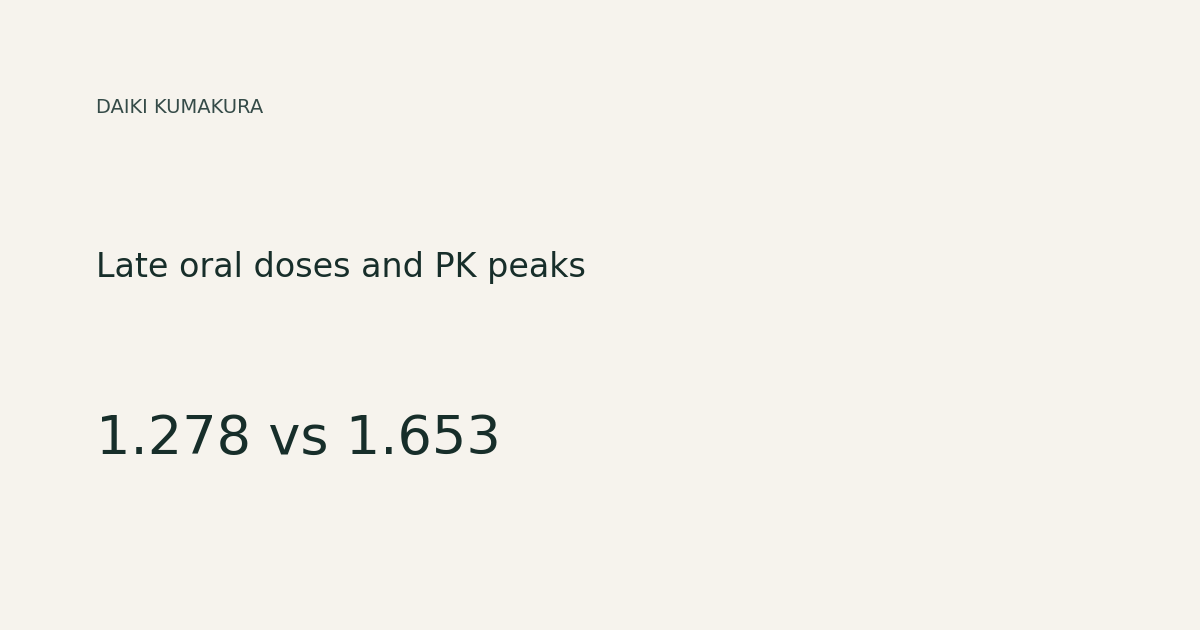
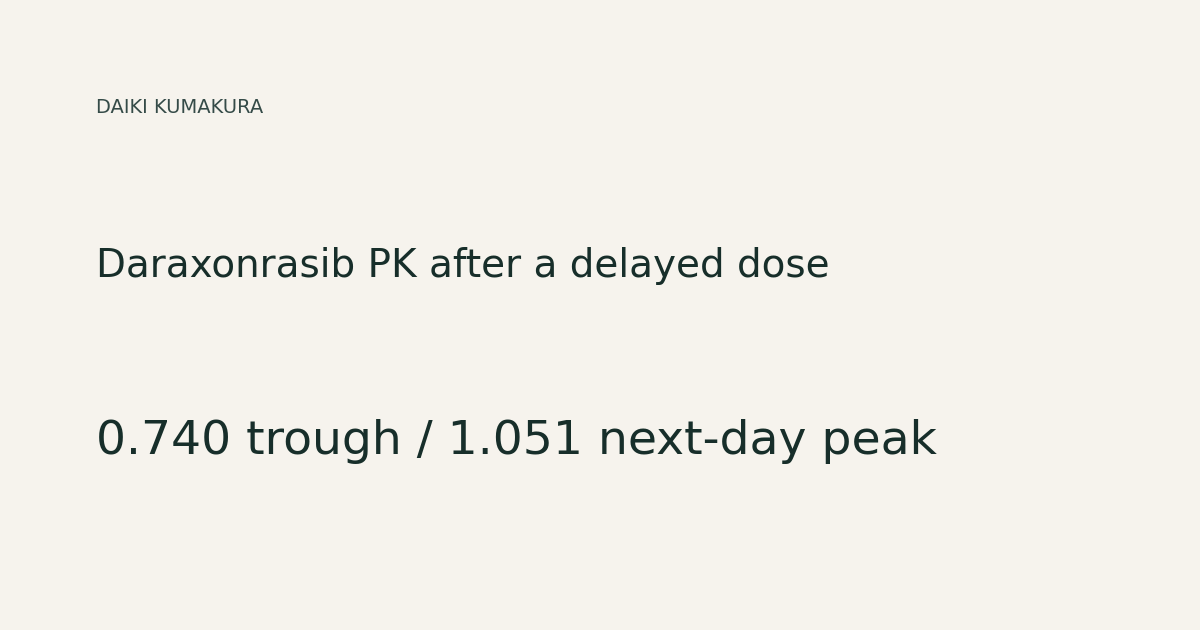
Ground two scheduled analyses in recent clinical evidence

Changed region(s): [[0.0617, 0.6333, 0.7708, 0.754], [0.0617, 0.3921, 0.7092, 0.4524]]

diff --git a/site/content/articles/survival-landmark-rmst-bounds/ja.md b/site/content/articles/survival-landmark-rmst-bounds/ja.md
@@ -1,26 +1,28 @@
-生存期間中央値が同じでも、生存曲線の面積は同じとは限らない。では、中央値のほかに6か月と18か月の生存割合が分かれば、18か月までの制限平均生存時間（RMST）はどこまで決まるか。RMSTは指定時点までの生存曲線の面積である ([1](#ref-1))。ここでは仮想の集計値だけを使い、曲線の単調性が許す範囲を求めた。
+DeLLphi-304の延長追跡では、tarlatamab群と化学療法群の全生存期間（OS）中央値は13.6か月と8.4か月だった。中央値の差は5.2か月である。24か月までの平均生存時間の差を知りたいとき、この数字とAnnals of Oncologyの抄録にある二つの生存割合で、どこまで答えが決まるだろうか。対象は白金製剤による化学療法中または治療後に進行した小細胞肺がんで、tarlatamab群254人、化学療法群255人の無作為化比較である。データカットオフは2026年2月18日だった ([1](#ref-1))。
 
-## ランドマーク間の面積を挟む
+## 抄録の数字から生存曲線の面積を挟む
 
-開始時の生存割合を1、6か月を0.70、18か月を0.30とし、中央値が12か月とする。中央値は初めて生存割合が0.50以下になる時点。6〜12か月では曲線は0.50より上で0.70以下、12〜18か月では0.50以下で0.30以上になる。12か月ちょうどで0.50を飛び越えて落ちる曲線も含む。各区間の幅6か月を掛けて足すと、18か月RMSTは $6(0.70+0.50+0.30)=9.0$ か月以上、$6(1+0.70+0.50)=13.2$ か月以下となる。12か月ちょうどの値を0.50と追加で定め、各区間を直線補間するなら11.1か月になる。
+24か月までの制限平均生存時間（RMST）は、無作為化から24か月までの生存曲線の面積である ([2](#ref-2))。原著で報告された12か月と24か月の生存割合はtarlatamabが55.9%と30.3%、化学療法が39.0%と14.9%だった ([1](#ref-1))。以下では報告値を固定し、曲線は1から始まり単調に下がるとする。生存割合が初めて0.5以下に達する時点を中央値とし、その時点で0.5を飛び越えて低下する場合も許した。
 
-## 同じ中央値を持つ曲線を二つ作る
+中央値と報告されたランドマークで時間を区切る。各区間の下限は、右側にある既知の生存割合の最大値である。中央値より前の区間では0.5も下限候補に含める。上限は左側にある既知の生存割合の最小値で、中央値以降なら高くても0.5とする。各上限・下限に区間幅を掛けて足す。例えばtarlatamab群の下限は $12(0.559)+1.6(0.5)+10.4(0.303)=10.6592$ か月になる。
 
-以下の二例では12か月ちょうどの値を0.50とした。上限の曲線は6、12、18か月の直前まで左側の値を維持し、各ランドマークで下がる。初めて0.50以下になるのは12か月で、面積は13.2か月。下限に近づける曲線では、0.001か月に0.70へ、6.001か月に0.501へ、12か月に0.50へ、12.001か月に0.30へ下がる。中央値は同じ12か月で、面積は9.0067か月。早い低下を区間の左端へ近づけ、0.501を0.50へ上から近づければ、中央値を保ったまま下限に近づく。6〜12か月で生存割合は0.50より上なので、9.0か月には達しない。表1はこの二つを示す。
+**表1.** 抄録の報告値を順に加えた場合の24か月RMSTの上下限。群間差はtarlatamabから化学療法を引いた値。
 
-**表1.** 同じ仮想集計に対応しうる曲線の例。
+| Information used | Tarlatamab (months) | Chemotherapy (months) | Difference (months) |
+| --- | ---: | ---: | ---: |
+| Median only | 6.80 to 18.80 | 4.20 to 16.20 | −9.40 to 14.60 |
+| Median and 12-month OS | 7.51 to 18.09 | 5.60 to 14.88 | −7.37 to 12.49 |
+| Median and 12- and 24-month OS | 10.66 to 18.09 | 7.39 to 14.88 | −4.22 to 10.70 |
 
-| Curve | S(6) | S(12) | S(18) | Median (months) | RMST to 18 months (months) |
-| --- | ---: | ---: | ---: | ---: | ---: |
-| Late drops | 0.70 | 0.50 | 0.30 | 12 | 13.2000 |
-| Early drops | 0.70 | 0.50 | 0.30 | 12 | 9.0067 |
+表1では、12・24か月の生存割合を加えると群間差の幅は24.0か月から14.9か月に狭まる。それでも0をまたぐ。差の下限はtarlatamabの面積の下限から化学療法の上限を引いた値で、上限はその逆の組合せで求めた。区間の端に近いところで段差を作る曲線は、これらの境界に近づける。中央値より前に下限が0.5になる区間では、0.5をわずかに上回る値で近づける。追加のランドマークや曲線の情報なしには、範囲をさらに狭められない。
 
-2群がこの集計を共有していても、一方を早い低下、もう一方を遅い低下にすれば、群間RMST差の符号はどちらにもなりうる。9.0〜13.2か月は標本誤差の区間ではない。公表値に丸めや推定誤差があれば、ここで固定した制約自体が変わる。この計算から試験の打ち切り、イベント数、ハザード比は復元していない。
+これは群間差の信頼区間ではない。丸められた報告値を固定して、曲線を省略した要約に何が残るかを測っている。ゼロを含むことは要約値の制約を示しており、試験で報告されたOS結果とは異なる問いである。[原著のFigure 1A](https://pmc.ncbi.nlm.nih.gov/articles/PMC13718749/#F1)には、計算に使っていないKaplan–Meier曲線もある ([1](#ref-1))。求めたい量が24か月でのRMST差なら、中央値の差5.2か月を代用するより、曲線の面積または試験データから求めた推定値とその不確実性を参照する必要がある。
 
 ## データとコードの公開状況
 
-生存割合は仮想値である。[再現用ZIP](shared/survival-landmark-rmst-bounds/companion.zip)に矩形和と階段曲線の検算を収録した。
+入力は原著の中央値とランドマーク生存割合で、個人データは用いていない。[再現用ZIP](shared/survival-landmark-rmst-bounds/companion.zip)にPythonコードと出力を収録した。
 
 ## 参照
 
-1. <a id="ref-1"></a> Zhao L, Claggett B, Tian L, Uno H, Pfeffer MA, Solomon SD, et al. On the restricted mean survival time curve in survival analysis. Biometrics. 2016;72(1):215–221. [doi:10.1111/biom.12384](https://doi.org/10.1111/biom.12384).
+1. <a id="ref-1"></a> Rudin CM, Ahn MJ, Schuler M, Blackhall FH, Mountzios G, Yoshida T, et al. Extended follow-up of tarlatamab in patients with small-cell lung cancer after platinum-based chemotherapy in the randomized phase III DeLLphi-304 study. Ann Oncol. 2026. [doi:10.1016/j.annonc.2026.10.095](https://doi.org/10.1016/j.annonc.2026.10.095).
+2. <a id="ref-2"></a> Zhao L, Claggett B, Tian L, Uno H, Pfeffer MA, Solomon SD, et al. On the restricted mean survival time curve in survival analysis. Biometrics. 2016;72(1):215–221. [doi:10.1111/biom.12384](https://doi.org/10.1111/biom.12384).

diff --git a/site/content/articles/survival-landmark-rmst-bounds/en.md b/site/content/articles/survival-landmark-rmst-bounds/en.md
@@ -1,26 +1,28 @@
-When two survival curves share a median, their areas can still differ. How closely can we pin down restricted mean survival time (RMST) through month 18 if we also know survival at months 6 and 18? RMST is the area under the survival curve up to a specified time ([1](#ref-1)). I used hypothetical summaries to calculate what monotonicity alone permits.
+At extended follow-up in DeLLphi-304, median overall survival (OS) was 13.6 months with tarlatamab and 8.4 months with chemotherapy, a difference of 5.2 months. If the quantity of interest is average survival through month 24, how much can that difference and the two survival probabilities in the Annals of Oncology abstract tell us? The randomized trial assigned 254 patients with small-cell lung cancer progressing on or after platinum-based chemotherapy to tarlatamab and 255 to chemotherapy. The data cutoff was February 18, 2026 ([1](#ref-1)).
 
-## Bounding the area between landmarks
+## Bounding the area from the published summary
 
-Set baseline survival to one, six-month survival to 0.70, and 18-month survival to 0.30. The median is month 12, the first time survival reaches 0.50 or below. Between months 6 and 12, survival is above 0.50 and at most 0.70. Between months 12 and 18, it is at most 0.50 and at least 0.30. A jump past 0.50 at month 12 is allowed. Multiplying by the six-month widths gives a lower limit of $6(0.70+0.50+0.30)=9.0$ months and an upper limit of $6(1+0.70+0.50)=13.2$ months. If survival at month 12 is additionally fixed at exactly 0.50, linear interpolation gives 11.1 months.
+Restricted mean survival time (RMST) through month 24 is the area under the survival curve from randomization to that time ([2](#ref-2)). Reported survival at months 12 and 24 was 55.9% and 30.3% with tarlatamab and 39.0% and 14.9% with chemotherapy ([1](#ref-1)). I treat those reported values as fixed and assume survival starts at 1 and is nonincreasing. The median is the first time survival reaches or falls below 0.5. A drop past 0.5 at the median is allowed.
 
-## Two curves with the same median
+Split follow-up at the median and the available landmarks. A lower bound for survival in each interval is the largest known survival probability to its right, with a floor of 0.5 before the median. The upper bound is the smallest known probability to its left, with a ceiling of 0.5 after the median. Multiply each bound by the interval width and sum the areas. For tarlatamab, for example, the lower bound is $12(0.559)+1.6(0.5)+10.4(0.303)=10.6592$ months.
 
-Both examples set survival at month 12 to exactly 0.50. The upper curve retains the left value until the next landmark and drops there. It first reaches 0.50 or below at month 12, with an area of 13.2 months. A curve close to the lower limit drops to 0.70 at month 0.001, to 0.501 at month 6.001, to 0.50 at month 12 and to 0.30 at month 12.001. Its median is still 12 months and its area is 9.0067 months. Moving the early drops towards the left endpoints and 0.501 down towards 0.50 preserves the median while approaching 9.0. Because survival is above 0.50 between months 6 and 12, the area never reaches 9.0. Table 1 shows the two cases.
+**Table 1.** Bounds for RMST through month 24 as published summary values are added. The difference subtracts chemotherapy from tarlatamab.
 
-**Table 1.** Two possible curves with the same hypothetical summaries.
+| Information used | Tarlatamab (months) | Chemotherapy (months) | Difference (months) |
+| --- | ---: | ---: | ---: |
+| Median only | 6.80 to 18.80 | 4.20 to 16.20 | −9.40 to 14.60 |
+| Median and 12-month OS | 7.51 to 18.09 | 5.60 to 14.88 | −7.37 to 12.49 |
+| Median and 12- and 24-month OS | 10.66 to 18.09 | 7.39 to 14.88 | −4.22 to 10.70 |
 
-| Curve | S(6) | S(12) | S(18) | Median (months) | RMST to 18 months (months) |
-| --- | ---: | ---: | ---: | ---: | ---: |
-| Late drops | 0.70 | 0.50 | 0.30 | 12 | 13.2000 |
-| Early drops | 0.70 | 0.50 | 0.30 | 12 | 9.0067 |
+In Table 1, adding survival at months 12 and 24 narrows the range for the difference from 24.0 to 14.9 months. The range still includes zero. The lower limit subtracts the upper bound for chemotherapy from the lower bound for tarlatamab. The upper limit uses the other pair. Step functions with drops near the interval endpoints approach the limits. When a premedian interval has a lower bound of 0.5, approach it with survival just above 0.5. Further landmarks or information about the curve could narrow the range.
 
-Two arms sharing these summaries can have an RMST difference of either sign, depending on which curve belongs to which arm. The interval from 9.0 to 13.2 months describes what the summaries permit, conditional on exact landmark values. Rounding or sampling error changes those constraints. This calculation does not recover censoring, event counts or hazard ratios.
+These bounds are conditional on the rounded published values and do not constitute a confidence interval. It measures information lost by replacing the curve with a few summaries. The inclusion of zero describes the limits of those summaries and addresses a different question from the trial’s reported OS result. [Figure 1A in the original paper](https://pmc.ncbi.nlm.nih.gov/articles/PMC13718749/#F1) shows the Kaplan–Meier curves, which are outside this calculation ([1](#ref-1)). A 24-month RMST contrast calls for integrating the curves or consulting a trial-based estimate and its uncertainty. The 5.2-month difference between medians answers a different question.
 
 ## Data and code availability
 
-The survival probabilities are hypothetical. The [companion ZIP](shared/survival-landmark-rmst-bounds/companion.zip) contains the rectangle sums and step-curve checks.
+The inputs are median and landmark survival values from the paper. I used no individual patient data. [The reproducibility ZIP](shared/survival-landmark-rmst-bounds/companion.zip) contains the Python code and output.
 
 ## References
 
-1. <a id="ref-1"></a> Zhao L, Claggett B, Tian L, Uno H, Pfeffer MA, Solomon SD, et al. On the restricted mean survival time curve in survival analysis. Biometrics. 2016;72(1):215–221. [doi:10.1111/biom.12384](https://doi.org/10.1111/biom.12384).
+1. <a id="ref-1"></a> Rudin CM, Ahn MJ, Schuler M, Blackhall FH, Mountzios G, Yoshida T, et al. Extended follow-up of tarlatamab in patients with small-cell lung cancer after platinum-based chemotherapy in the randomized phase III DeLLphi-304 study. Ann Oncol. 2026. [doi:10.1016/j.annonc.2026.10.095](https://doi.org/10.1016/j.annonc.2026.10.095).
+2. <a id="ref-2"></a> Zhao L, Claggett B, Tian L, Uno H, Pfeffer MA, Solomon SD, et al. On the restricted mean survival time curve in survival analysis. Biometrics. 2016;72(1):215–221. [doi:10.1111/biom.12384](https://doi.org/10.1111/biom.12384).

diff --git a/site/content/articles/oral-pk-delayed-dose-tradeoff/ja.md b/site/content/articles/oral-pk-delayed-dose-tradeoff/ja.md
@@ -1,26 +1,31 @@
-12時間間隔の経口薬を9時間遅れて服用すると、次の予定までは3時間しかない。初回の遅れを埋めても、次の予定を元の時刻に置くかどうかで、その後の濃度の山が変わる。ClarkとLawleyは不規則な服用を薬物動態モデルで検討した ([1](#ref-1))。ここでは二つの時間窓を分け、低濃度と高濃度をそれぞれ計算する。
+Daraxonrasibの米国添付文書では、通常は300 mgを1日1回投与し、予定から4時間を超えた場合はその回を見送る ([1](#ref-1))。4時間という境界について、公開されている薬物動態（PK）の集計値から何が計算できるだろうか。服用遅れのモデルでは低濃度と高濃度が同じ方向には動かないことがある ([2](#ref-2))。そこで、ある1回だけ投与時刻が変わったときの最低濃度と、翌日の最高濃度を分けて計算した。
 
-## 次の予定を固定した場合と移した場合
+## 添付文書の半減期とピーク時刻から形を決める
 
-定常状態から始める。1コンパートメントモデルで吸収速度定数を毎時1、消失半減期を8時間、1回量を見かけの分布容積で割った値を濃度の1単位とした。投与から $t$ 時間後の寄与は $k_a(e^{-kt}-e^{-k_at})/(k_a-k)$ で、投与前はゼロ。$k=log(2)/8$ とし、過去の定期投与の寄与を等比級数で求め、予定と異なる投与分を加減した。0.001時間刻みで、0時間の予定を起点とする二つの窓の極値を求めた。
+一次吸収・一次消失の1コンパートメントモデルを、24時間間隔の定常状態から始める。消失速度定数は添付文書の終末半減期9.2時間から $k=\log(2)/9.2$ とし、吸収速度定数 $k_a$ は、添付文書の最高濃度到達時間の中央値2.2時間をモデルの定常状態で再現するよう二分法で決めた ([1](#ref-1))。添付文書のこの記載では定常状態かどうかが明記されていない。モデルでは終末相を消失で決まると仮定した。投与1回の寄与は $k_a(e^{-kt}-e^{-k_at})/(k_a-k)$ とした。ここで $t$ は投与からの時間、濃度の単位は1回量を見かけの分布容積で割った値である。定常状態から予定時刻0の寄与を引き、遅れて投与する場合はその時刻からの寄与を足した。24時間以降の投与予定は固定した。
 
-**表1. 0.001時間刻みで求めた濃度の極値**
+濃度曲線の形を点検するため、モデルの最高濃度と定常24時間の濃度時間曲線下面積（AUC）の比を確認した。モデルでは0.076 h⁻¹、添付文書の幾何平均である最高濃度365 ng/mLとAUC 3,760 ng·h/mLの商は0.097 h⁻¹だった ([1](#ref-1))。添付文書のこの記載箇所ではAUCの積分区間が明記されず、この二つの商から個人ごとの比のばらつきは分からない。仮に同じ積分区間ならモデルの比は公表値の商より約21%小さい。濃度を一律に拡大しても、この差は縮まらない。以下はモデル内での比で示す。
 
-| Change to the schedule at hours 0, 12 and 24 | Minimum from hour 0 to just before hour 12 | Maximum from hour 12 through hour 24 |
+**表1.** 半減期9.2時間での比較。0.01時間刻みで極値を求めた。
+
+| Scenario at hour 0 | Minimum through hour 24 / usual trough | Maximum during hours 24–48 / usual peak |
 | --- | ---: | ---: |
-| No change | 0.599 | 1.278 |
-| Skip the dose at hour 0 | 0.212 | 0.962 |
-| Move the dose to hour 9 and keep hours 12 and 24 | 0.275 | 1.653 |
-| Move the dose to hour 9 and continue every 12 hours | 0.275 | 1.184 |
+| On time | 1.000 | 1.000 |
+| Taken 4 h late | 0.740 | 1.051 |
+| Taken 8 h late (counterfactual) | 0.547 | 1.121 |
+| Omitted | 0.164 | 0.855 |
 
-表1の後ろ2行は0〜12時間の経過が同じだが、次を12時間に置くと後半の最大濃度は1.653で、予定どおりの約1.29倍になる。次を21時間に置くと後半の最大は1.184に下がる。一方で投与時刻は元の周期からずれる。同じ最低濃度を通る二案でも、その後のピークと予定時刻は一致しない。
+## 4時間を境界にする根拠はPKだけで決まらない
 
-この例では吸収・消失を線形とし、薬効や毒性の閾値を置いていない。各案の長期の濃度や実薬での服用判断は、この24時間の計算からは決まらない。
+表1では、4時間遅れの最初の24時間の最低濃度は通常のトラフの74%、翌日の最高濃度は通常のピークの105%になる。半減期を添付文書の平均から1標準偏差（2.7時間）上下させた6.5時間と11.9時間に振り、そのつど2.2時間のピーク時刻に合わせ直すと、4時間遅れの最低濃度比は0.653〜0.792、翌日のピーク比は3条件で1.042〜1.051だった。この幅は半減期を振った結果で、個体差を推定した区間ではない。
+
+8時間遅れは添付文書に沿わない反実仮想で、翌日のピークをどれだけ上げるかを見るために置いた。一方、1回飛ばすとそのピークの上昇はないが、このモデルでは前半の最低濃度がより低くなる。どちらの濃度変化が有効性や毒性にどれだけ効くかは推定していない。添付文書の4時間という境界をPKの集計値だけで再導出することはできない。
 
 ## データとコードの公開状況
 
-仮想条件のみを用いた。[再現用Pythonコードと出力](shared/oral-pk-delayed-dose-tradeoff/companion.zip)を公開する。
+添付文書の公開集計値を用いた。[再現用ZIP](shared/oral-pk-delayed-dose-tradeoff/companion.zip)にPythonコードと出力を収録した。
 
 ## 参照
 
-1. <a id="ref-1"></a> [Clark ED, Lawley SD. Should patients skip late doses of medication? A pharmacokinetic perspective. J Pharmacokinet Pharmacodyn. 2022;49(4):429–444.](https://doi.org/10.1007/s10928-022-09812-0)
+1. <a id="ref-1"></a> US Food and Drug Administration. Rasonque (daraxonrasib) prescribing information. 2026. Sections 2.2 and 12.3. [Drugs@FDA](https://www.accessdata.fda.gov/drugsatfda_docs/label/2026/220910Orig1s000lbl.pdf).
+2. <a id="ref-2"></a> Clark ED, Lawley SD. Should patients skip late doses of medication? A pharmacokinetic perspective. J Pharmacokinet Pharmacodyn. 2022;49(4):429–444. [doi:10.1007/s10928-022-09812-0](https://doi.org/10.1007/s10928-022-09812-0).

diff --git a/site/content/articles/oral-pk-delayed-dose-tradeoff/en.md b/site/content/articles/oral-pk-delayed-dose-tradeoff/en.md
@@ -1,26 +1,31 @@
-If a dose scheduled every 12 hours is taken nine hours late, just three hours remain before the next scheduled dose. Catching up on the late dose still leaves a choice of timing, and that choice changes the next concentration peak. Clark and Lawley studied irregular dosing with pharmacokinetic models ([1](#ref-1)). Here, I calculate the low and high concentrations in separate windows.
+The US prescribing information for daraxonrasib specifies 300 mg once daily and omitting a dose if it is more than four hours late ([1](#ref-1)). What can published pharmacokinetic (PK) summaries tell us about that cutoff? Models of irregular dosing can show low and high concentrations moving in different directions ([2](#ref-2)). I calculated the minimum concentration after one departure from the schedule and the maximum concentration the following day.
 
-## Keeping or shifting the next scheduled time
+## Setting the profile from the label half-life and time to peak
 
-The model starts at steady state. It has one compartment, an absorption rate constant of 1 per hour, and an elimination half-life of eight hours. The dose divided by apparent volume is one concentration unit. The contribution $t$ hours after a dose is $k_a(e^{-kt}-e^{-k_at})/(k_a-k)$, and zero before dosing. I set $k=log(2)/8$ and summed the previous regular doses as geometric series, then added or subtracted deviations from the schedule. I calculated extrema on a 0.001-hour grid in two windows measured from the scheduled dose at hour zero.
+I used a one-compartment model with first-order absorption and elimination, starting from steady state with a 24-hour dosing interval. I set $k=\log(2)/9.2$ from the reported terminal half-life of 9.2 hours. I then used bisection to choose the absorption rate $k_a$ whose steady-state time to maximum concentration matched the reported median of 2.2 hours ([1](#ref-1)). The label does not identify the reported time to peak as a steady-state value. The model assumes that elimination determines the terminal phase. The contribution of one dose is $k_a(e^{-kt}-e^{-k_at})/(k_a-k)$, where $t$ is time since dosing and the concentration unit is one dose divided by apparent volume. I removed the contribution of the scheduled dose at hour zero and added the contribution of the delayed dose where applicable. Dosing at and after hour 24 stayed on schedule.
 
-**Table 1. Concentration extrema on a 0.001-hour grid**
+To check the shape of the profile, I divided the model's maximum concentration by its steady-state area under the concentration–time curve (AUC) over 24 hours. The ratio was 0.076 h⁻¹. Dividing the label's geometric-mean peak of 365 ng/mL by its geometric-mean AUC of 3,760 ng·h/mL gives 0.097 h⁻¹ ([1](#ref-1)). The label does not specify the integration interval in that passage, and the two summaries do not give the variability of individual ratios. If the two integration intervals coincide, the model ratio is about 21% lower than the ratio of the published summaries. Scaling concentrations by a common factor cannot close the gap. The table reports ratios within the model.
 
-| Change to the schedule at hours 0, 12 and 24 | Minimum from hour 0 to just before hour 12 | Maximum from hour 12 through hour 24 |
+**Table 1.** Comparison at the 9.2-hour half-life. Extrema were calculated on a 0.01-hour grid.
+
+| Scenario at hour 0 | Minimum through hour 24 / usual trough | Maximum during hours 24–48 / usual peak |
 | --- | ---: | ---: |
-| No change | 0.599 | 1.278 |
-| Skip the dose at hour 0 | 0.212 | 0.962 |
-| Move the dose to hour 9 and keep hours 12 and 24 | 0.275 | 1.653 |
-| Move the dose to hour 9 and continue every 12 hours | 0.275 | 1.184 |
+| On time | 1.000 | 1.000 |
+| Taken 4 h late | 0.740 | 1.051 |
+| Taken 8 h late (counterfactual) | 0.547 | 1.121 |
+| Omitted | 0.164 | 0.855 |
 
-The final two rows of Table 1 have the same profile up to hour 12. Keeping the next dose at hour 12 raises the second window's maximum to 1.653, about 1.29 times the planned peak. Moving it to hour 21 lowers that maximum to 1.184 and shifts the dosing schedule. Two schedules can pass through the same minimum and still differ in their next peak and dosing times.
+## PK summaries cannot establish the four-hour cutoff
 
-The model assumes linear absorption and elimination and specifies no efficacy or toxicity threshold. A 24-hour calculation cannot establish long-term exposure or how to handle a late dose of an actual drug.
+In Table 1, a four-hour delay gives a minimum in the first 24 hours of 74% of the usual trough and a next-day maximum of 105% of the usual peak. Varying the half-life to 6.5 and 11.9 hours (one reported standard deviation of 2.7 hours below and above the mean) and recalibrating the absorption rate to retain a 2.2-hour time to peak yields a four-hour-delay minimum ratio of 0.653 to 0.792. Across the three scenarios the next-day peak ratio is 1.042 to 1.051. These are half-life sensitivity results. They do not estimate a population interval.
+
+Taking the dose eight hours late is a counterfactual outside the label instructions, included to show how much the next-day peak would rise in the model. Omitting one dose avoids that rise and yields a lower first-window minimum. The calculation does not estimate how either change affects efficacy or toxicity. The reported PK summaries are insufficient to derive the four-hour cutoff in the label.
 
 ## Data and code availability
 
-The calculation uses hypothetical inputs. [Download the Python code and output](shared/oral-pk-delayed-dose-tradeoff/companion.zip).
+The inputs are public prescribing-information summaries. [The reproducibility ZIP](shared/oral-pk-delayed-dose-tradeoff/companion.zip) contains the Python code and output.
 
 ## References
 
-1. <a id="ref-1"></a> [Clark ED, Lawley SD. Should patients skip late doses of medication? A pharmacokinetic perspective. J Pharmacokinet Pharmacodyn. 2022;49(4):429–444.](https://doi.org/10.1007/s10928-022-09812-0)
+1. <a id="ref-1"></a> US Food and Drug Administration. Rasonque (daraxonrasib) prescribing information. 2026. Sections 2.2 and 12.3. [Drugs@FDA](https://www.accessdata.fda.gov/drugsatfda_docs/label/2026/220910Orig1s000lbl.pdf).
+2. <a id="ref-2"></a> Clark ED, Lawley SD. Should patients skip late doses of medication? A pharmacokinetic perspective. J Pharmacokinet Pharmacodyn. 2022;49(4):429–444. [doi:10.1007/s10928-022-09812-0](https://doi.org/10.1007/s10928-022-09812-0).
